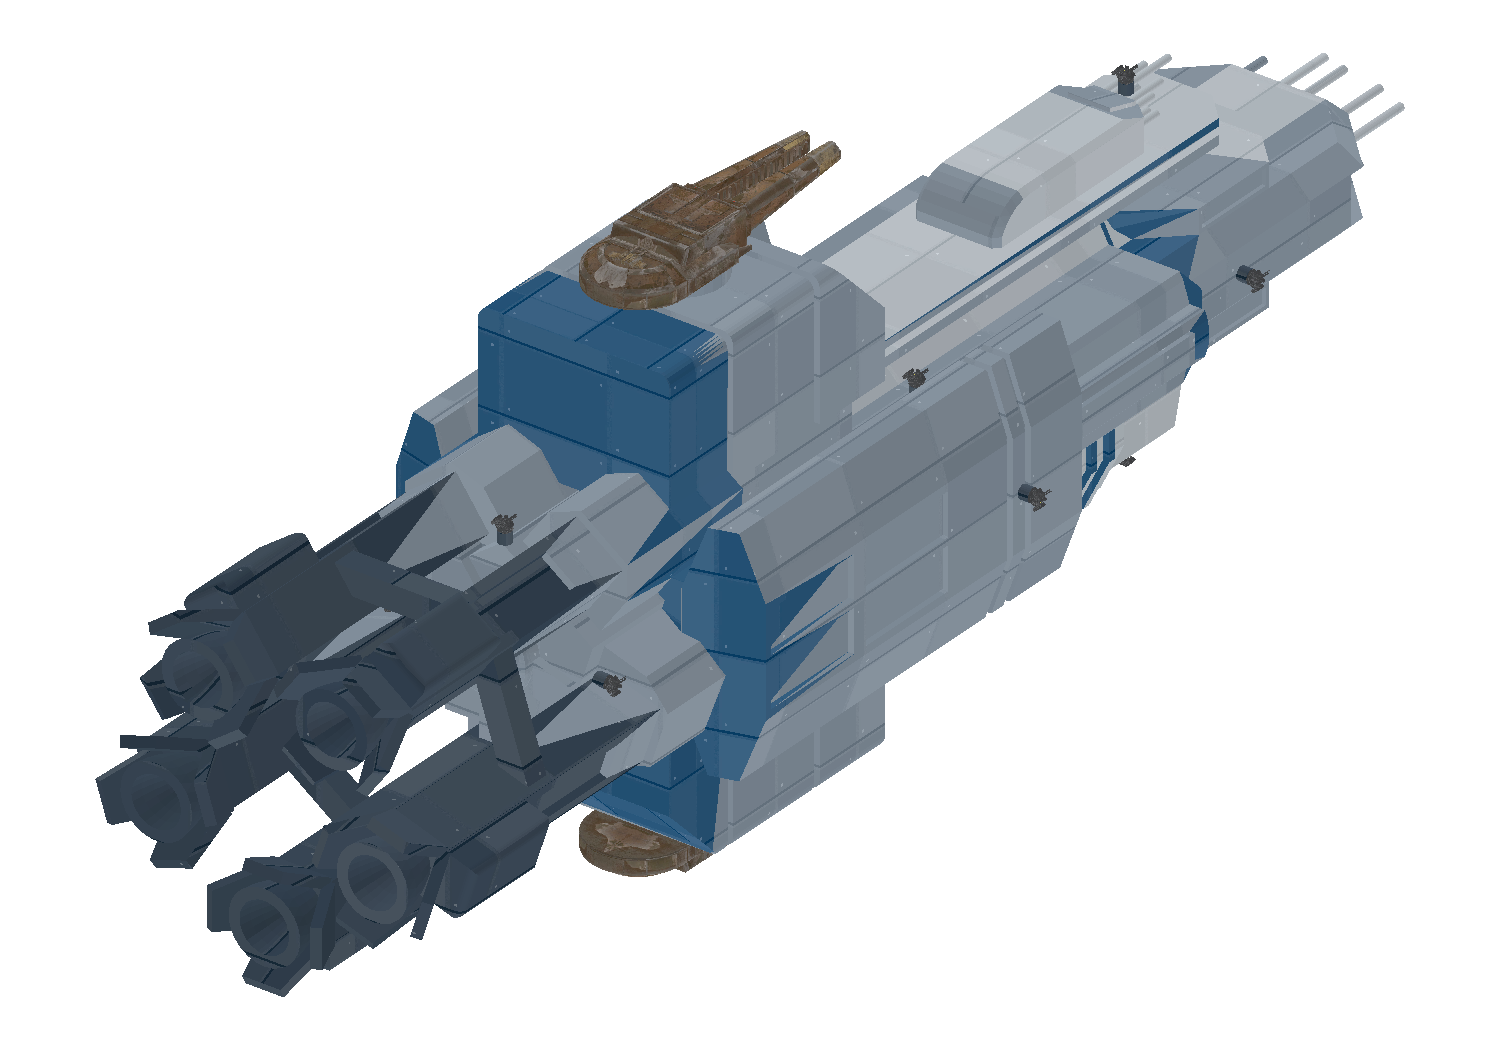
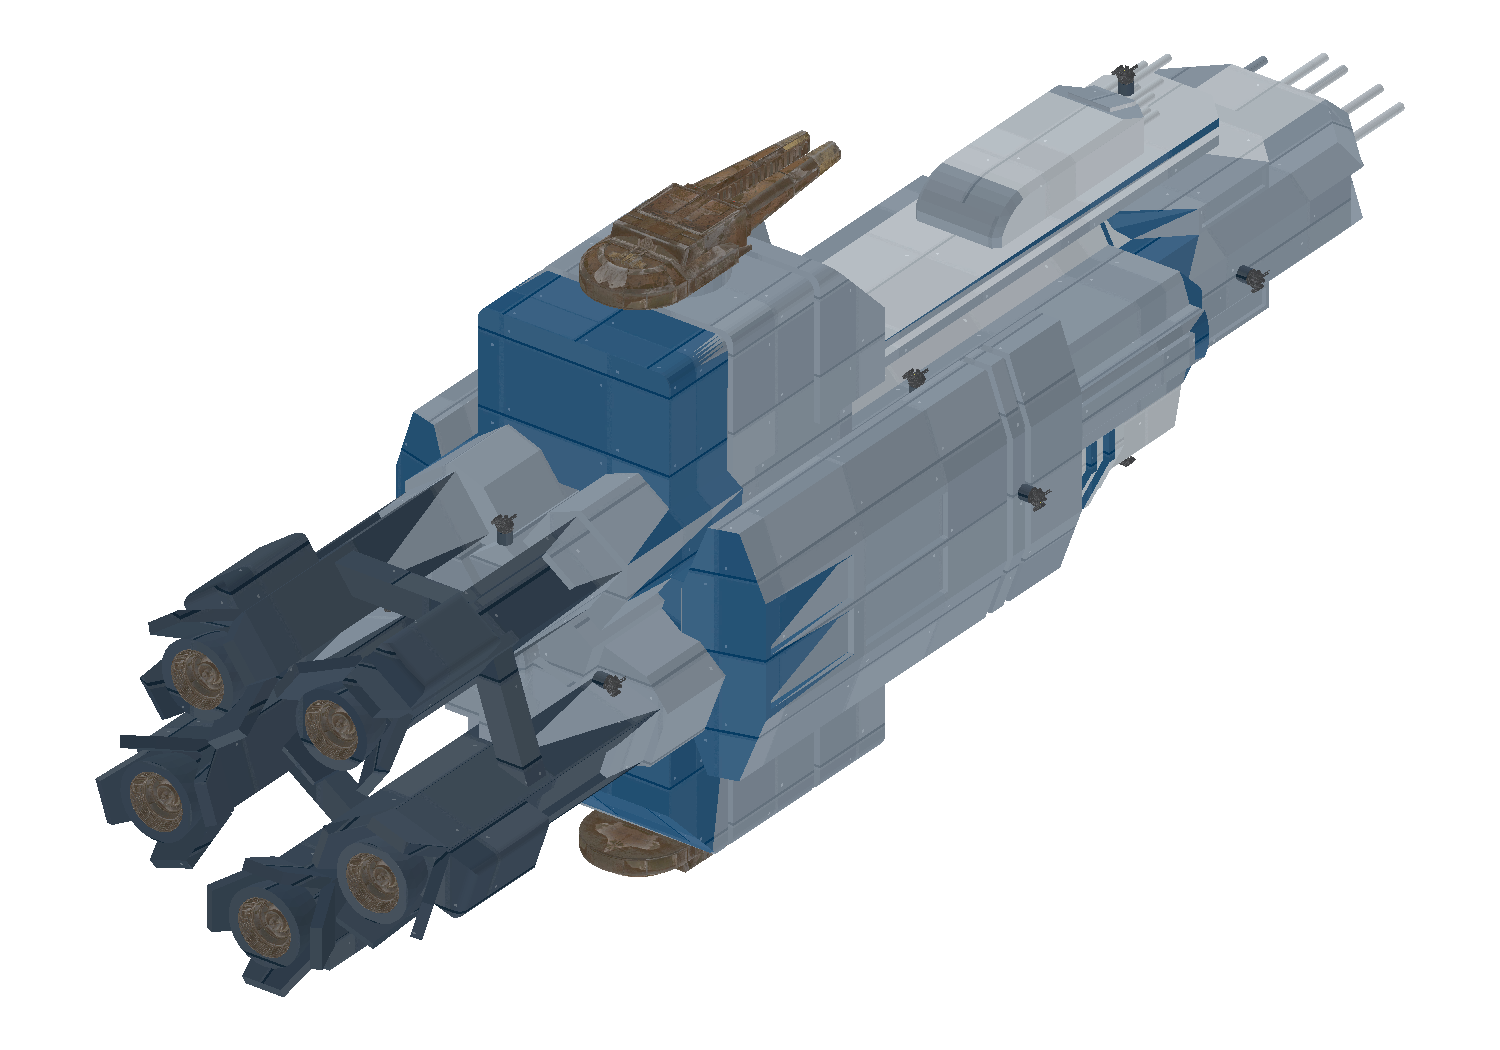
Replace Hale print drive recesses with detailed textured Truman bells

diff --git a/tools/update27_earth_drives.py b/tools/update27_earth_drives.py
@@ -1,0 +1,60 @@
+"""Replace Hale's five plain print recesses with accepted detailed Truman bells."""
+import argparse,copy,hashlib,shutil
+import numpy as np
+from common import read,write
+from update27_earth_geometry import ROOT,BASE,OUT,BUILD,GAME,AUD,IDS
+from update26_platform_common import load_parts,export,compile as compile_mesh
+from update23_murphy_art import frames
+
+def sha(p):return hashlib.sha256(p.read_bytes()).hexdigest()
+def split(poly,n,d):
+ inside=[];outside=[]
+ for i,a in enumerate(poly):
+  b=poly[(i+1)%len(poly)];da=a@n-d;db=b@n-d;(inside if da<=0 else outside).append(a)
+  if(da<=0)!=(db<=0):q=a+(b-a)*da/(da-db);inside.append(q);outside.append(q)
+ return inside,outside
+
+def aperture(tri,c,radius,depth):
+ planes=[(np.array([np.cos(a),np.sin(a),0]),radius+np.dot(c,[np.cos(a),np.sin(a),0]))for a in np.arange(48)*2*np.pi/48]+[(np.array([0,0,1]),c[2]+depth)];out=[];count=0
+ for t in tri:
+  if t[:,2].min()>c[2]+depth or (t[:,:2].min(0)>c[:2]+radius).any()or(t[:,:2].max(0)<c[:2]-radius).any():out.append(t);continue
+  rem=list(t);pieces=[]
+  for n,d in planes:
+   if len(rem)<3:break
+   rem,other=split(rem,n,d)
+   if len(other)>=3:pieces.extend([[other[0],other[j],other[j+1]]for j in range(1,len(other)-1)])
+  if len(rem)>=3:count+=1
+  out.extend(pieces)
+ out=np.array(out);q=np.cross(out[:,1]-out[:,0],out[:,2]-out[:,0]);return out[np.linalg.norm(q,axis=1)>1e-7],count
+
+def prepare():
+ kind='hale';a=read(AUD/(kind+'-integration.json'));name=a['hull_mesh'];D=OUT/'drive-revision';D.mkdir(exist_ok=True);frozen=D/'previous-hale.mesh'
+ if not frozen.exists():shutil.copyfile(GAME/'meshes'/(name+'.mesh'),frozen);write(D/'previous-integration.json',a)
+ previous=read(D/'previous-integration.json');parts=load_parts(frozen);details=[]
+ source=BASE/'meshes/expanse24_storm_hull.mesh';dp=next(p for p in load_parts(source)if p['material'].endswith('_storm_drive'));used=np.unique(dp['i']);v=dp['v'][used];lo=v.min(0);hi=v.max(0);center=np.r_[(lo[:2]+hi[:2])/2,lo[2]];diam=22.;scale=diam/max(hi[:2]-lo[:2]);driveparts=[]
+ for p in parts:
+  p['material']=p['material'].removeprefix(name+'_')
+  if p['material']!='machinery':continue
+  tri=p['v'][p['i']]
+  for i,e in enumerate(a['exhausts']):
+   c=np.array(e['position'])+[0,0,.15];tri,n=aperture(tri,c,11.05,23.);q=copy.deepcopy(dp);q['v']=(q['v']-center)*scale+c;q['material']='epstein_drive';driveparts.append(q);details.append({'nozzle':i,'opening_center':c.tolist(),'diameter':diam,'depth':float((hi[2]-lo[2])*scale),'aperture_radius':11.05,'aperture_depth':23.,'old_faces_touched':n})
+  p.update(frames(tri));p['material']='machinery'
+ first=driveparts[0]
+ for q in driveparts[1:]:
+  off=len(first['v']);first['i']=np.concatenate([first['i'],q['i']+off])
+  for k in ['v','n','t','uv']:first[k]=np.concatenate([first[k],q[k]])
+ parts.append(first);export(name,parts,a['meshpoints'],D/name)
+ before=previous['counts']['hull'];after=sum(len(p['i'])for p in parts);a['counts']['hull']=after;a['counts']['assembled']=previous['counts']['assembled']-before+after
+ a['drive_revision']={'donor':str(source),'donor_sha256':sha(source),'donor_material':dp['material'],'upstream_donor':'Accepted Truman bell, inner throat and support rings; retained in Storm0.26 as a UV-preserving component','triangles_per_drive':len(dp['i']),'uniform_scale_from_storm_component':scale,'source_uvs_normals_tangents_preserved':True,'nozzles':details,'previous_hull_sha256':sha(frozen),'weapon_mounts_unchanged':a['rigs']==previous['rigs'],'exhaust_meshpoints_unchanged':a['exhausts']==previous['exhausts'],'munroe':'Detailed four-engine source hardware retained; radial surface depth varies across bell/throat, no flat cap substitution.'};write(D/'new-integration.json',a);print('PREPARED',a['counts'],flush=True)
+
+def compile():
+ D=OUT/'drive-revision';a=read(D/'new-integration.json');name=a['hull_mesh'];B=BUILD/'drive-revision';B.mkdir(exist_ok=True);check=compile_mesh(name,D/name,B,GAME,a['meshpoints']);a['compile_checks'][name]=check
+ rel='mesh_materials/'+name+'_epstein_drive.mesh_material';source=BASE/'mesh_materials/expanse24_storm_hull_storm_drive.mesh_material';d=read(source);write(GAME/rel,d);a['files'][rel]=sha(GAME/rel);a['source_dependency_hashes'][str(source)]=sha(source)
+ for k,v in d.items():
+  if k.endswith('_texture'):
+   rel='textures/'+v+'.dds'
+   if not(GAME/rel).exists():shutil.copyfile(BASE/rel,GAME/rel)
+   a['files'][rel]=sha(GAME/rel)
+ a['files']['meshes/'+name+'.mesh']=sha(GAME/'meshes'/(name+'.mesh'));a['drive_revision']['compiled']=True;write(AUD/'hale-integration.json',a);write(AUD/'drive-revision.json',a['drive_revision']);print('COMPILED DRIVE REVISION',flush=True)
+if __name__=='__main__':
+ p=argparse.ArgumentParser();p.add_argument('stage',choices=['prepare','compile']);globals()[p.parse_args().stage]()

diff --git a/docs/update27-earth.md b/docs/update27-earth.md
@@ -15,7 +15,7 @@ The fused print gun tops are cut at actual bearings. Intersection loops are stit
 
 | Hull | Remaining hull triangles | Complete assembled triangles | Engines | Moving mounts |
 |---|---:|---:|---:|---|
-| Nathan Hale | 21,650 | 39,330 | 5 | 12 PDC + 2 rail |
+| Nathan Hale | 62,017 | 79,697 | 5 | 12 PDC + 2 rail |
 | Munroe | 254,029 | 259,445 | 4 | 8 PDC |
 
 No broad decimation was needed: replacing Munroe's extremely dense fused PDC tops removed the excess while preserving every remaining original hull triangle. The STL's small relief details and four-drive silhouette remain. New material assignments add steel armor, blue bands, contrasting machinery and light metal panels. New procedural BC7 textures and retained normal/mask resources supply the surface palette. The STL has no original color map to recover. UVs deliberately tile and trigger the SDK's out-of-range UV warning; this is not a missing texture or invalid mesh. Offline previews show base color and triangle geometry, not engine PBR lighting.
@@ -53,4 +53,13 @@ Hale additionally costs one offense and one defense exotic. Torpedoes reuse the 
 
 Only regular owned game files may be copied; duplicate donor textures must match the accepted package bytes. Do not copy `.tools`, source archives or any Wine prefix. Runtime acceptance still requires live target acquisition, turret animation, nozzle effects, research/build menus, save/reload and multiplayer. Offline passes are recorded separately in `validation.json` and do not claim those runtime tests.
 
-Observed offline: 45 schema checks, native reference/action-value resolution for both ships, compiled winding/frame checks, 124 explicitly hashed game files, zero blocked PDC rays on the final one-degree sweep, and zero blocked rail muzzle rays over their horizontal arcs. Both compiled bow/aft previews were visually inspected.
+Observed offline: 45 schema checks, native reference/action-value resolution for both ships, compiled winding/frame checks, 125 explicitly hashed game files, zero blocked PDC rays on the final one-degree sweep, and zero blocked rail muzzle rays over their horizontal arcs. Both compiled bow/aft previews were visually inspected.
+
+
+## Requested detailed drive revision
+
+Post-build `update27_earth_drives.py prepare` then `compile` replaces Nathan Hale's five simple print recesses with actual accepted Truman bell/throat/support-ring geometry, selected from the existing Storm drive component. Original donor UVs, normal frames and textured material remain; no procedural stand-in cone. A 48-plane cylindrical subtraction removes the old inner print surfaces without deleting the surrounding five drive housings. Each new bell is 22 game units across and uniformly scaled; its mouth matches the original measured exhaust center. Hull count is now **62,017**, assembled **79,697**. Gun mounts, firing arcs, plume attachment positions, game dimensions, health and all costs are unchanged.
+
+Munroe already contains approximately **36,000 triangles of bell/throat hardware per drive** in its immediate nozzle regions. A compiled-mesh radial probe finds varied recessed depths and complex central hardware rather than a flat printer cap. Its four existing detailed drives and dense body are retained unchanged; see `munroe-drive-audit.json`. The three-engine reference remains excluded.
+
+After the drive revision, regenerate Hale previews, UI, private recipe audits and final validation/manifest. `drive-revision.json` records exact donor hashes, scale, local clipping dimensions, counts and invariant checks. The update adds actual donor surface texture detail to Hale's engines; new whole-hull photographic texture projection is not claimed.
